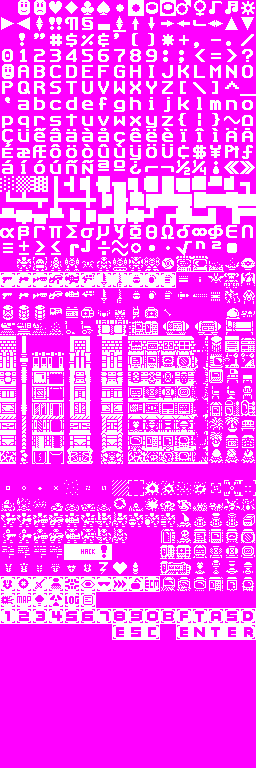
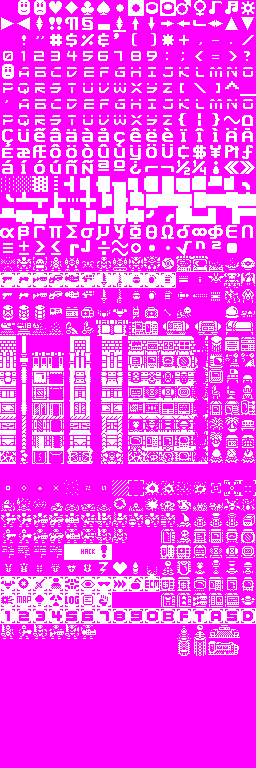
Making a mission of the antenna thing

diff --git a/RogueBasin/TraumaRL/TraumaWorldGenerator.cs b/RogueBasin/TraumaRL/TraumaWorldGenerator.cs
@@ -1337,7 +1337,7 @@ DecorationFeatureDetails.DecorationFeatures.Bin
             PlaceDoorOnMap(mapInfo, arcologyDoorId, arcologyDoorName, 1, arcologyDoorColor, elevatorToArcology);
 
             //Bioware
-            var biowareIdIdealLevel = new List<int> { storageLevel, scienceLevel };
+            var biowareIdIdealLevel = new List<int> { storageLevel, scienceLevel, flightDeck };
             PlaceClueForDoorInVault(mapInfo, levelInfo, arcologyDoorId, arcologyDoorColor, arcologyDoorName, biowareIdIdealLevel);
         }
 
@@ -1358,13 +1358,23 @@ DecorationFeatureDetails.DecorationFeatures.Bin
 
             UseVault(levelInfo, antennaeVaultConnection);
 
+            //Extra stuff
+
+            var antennaeLevel = mapInfo.GetLevelForRoomIndex(antennaeVault);
+
+            var monstersToPlace = new List<Monster> { new RogueBasin.Creatures.RotatingTurret(), new RogueBasin.Creatures.HeavyTurret(), new RogueBasin.Creatures.PatrolBotRanged(), new RogueBasin.Creatures.PatrolBotRanged()};
+            AddMonstersToRoom(mapInfo, antennaeLevel, antennaeVault, monstersToPlace);
+
+            var decorations = new List<Tuple<int, DecorationFeatureDetails.Decoration>> { new Tuple<int, DecorationFeatureDetails.Decoration>(1, DecorationFeatureDetails.decorationFeatures[DecorationFeatureDetails.DecorationFeatures.Antennae]) };
+            AddStandardDecorativeFeaturesToRoom(antennaeLevel, mapInfo.GetRoom(antennaeVault), 10, decorations, true);
+
             //Servo motor
 
-            var servoRoom = PlaceMovieClueForObjectiveInVault(mapInfo, levelInfo, antennaeObjName, (char)307, "interface_demod", new List<int> { scienceLevel, storageLevel });
+            var servoRoom = PlaceMovieClueForObjectiveInVault(mapInfo, levelInfo, antennaeObjName, (char)312, "interface_demod", new List<int> { scienceLevel, storageLevel });
 
             //Logs
 
-            var antennaeLevel = mapInfo.GetLevelForRoomIndex(antennaeVault);
+            
             var servoLevel = mapInfo.GetLevelForRoomIndex(servoRoom);
 
             var allowedRoomsForLogs = manager.GetValidRoomsToPlaceClueForObjective(antennaeObjName);

diff --git a/RogueBasin/RogueBasin/DecorationFeatureDetails.cs b/RogueBasin/RogueBasin/DecorationFeatureDetails.cs
@@ -20,7 +20,7 @@ namespace RogueBasin
             Screen5, MachinePart1, Computer1, MachinePart2, MachinePart3, Statue1, Statue2,
             Statue3, Statue4, Screen6, Screen7, Screen8,
             CleaningDevice, WheelChair, ShopAutomat1, ShopAutomat2, Screen9,
-            Computer2, Computer3
+            Computer2, Computer3, Antennae
         }
         
         public class Decoration {
@@ -43,6 +43,7 @@ namespace RogueBasin
             var blockingColor = ColorPresets.SandyBrown;
             var nonBlockingColor = ColorPresets.DarkSlateGray;
             var corpseColor = ColorPresets.Firebrick;
+            var featureColor = ColorPresets.Gold;
 
             decorationFeatures.Add(DecorationFeatures.Bone, new Decoration((char)314, boneColor, false));
             decorationFeatures.Add(DecorationFeatures.Skeleton, new Decoration((char)315, boneColor, false));
@@ -103,6 +104,7 @@ namespace RogueBasin
             decorationFeatures.Add(DecorationFeatures.Computer2, new Decoration((char)605, blockingColor, true));
             decorationFeatures.Add(DecorationFeatures.Computer3, new Decoration((char)606, blockingColor, true));
 
+            decorationFeatures.Add(DecorationFeatures.Antennae, new Decoration((char)570, featureColor, false));
         }
     }
 }

diff --git a/RogueBasin/TraumaRL/TraumaWorldGenerator2.cs b/RogueBasin/TraumaRL/TraumaWorldGenerator2.cs
@@ -301,6 +301,33 @@ namespace TraumaRL
             }
         }
 
+        private int AddMonstersToRoom(MapInfo mapInfo, int level, int roomId, List<Monster> monsters)
+        {
+            var candidatePointsInRoom = mapInfo.GetAllPointsInRoomOfTerrain(roomId, RoomTemplateTerrain.Floor).Shuffle();
+
+            int monstersPlaced = 0;
+
+            Monster mon = monsters[monstersPlaced];
+
+            foreach (Point p in candidatePointsInRoom)
+            {
+                bool placedSuccessfully = Game.Dungeon.AddMonster(mon, level, p);
+
+                if (placedSuccessfully)
+                {
+                    
+                    GiveMonsterStandardItems(mon);
+                    monstersPlaced++;
+
+                    if (monstersPlaced == monsters.Count())
+                        break;
+
+                    mon = monsters[monstersPlaced];
+                }
+            }
+            return monstersPlaced;
+        }
+
         private bool AddMonsterLinearPatrol(MapInfo mapInfo, MonsterFightAndRunAI monster, Dictionary<int, List<int>> terminalBranchNodes, int level)
         {
             var roomsOnLevel = mapInfo.FilterOutCorridors(mapInfo.GetRoomIndicesForLevel(level).Except(allReplaceableVaults));
